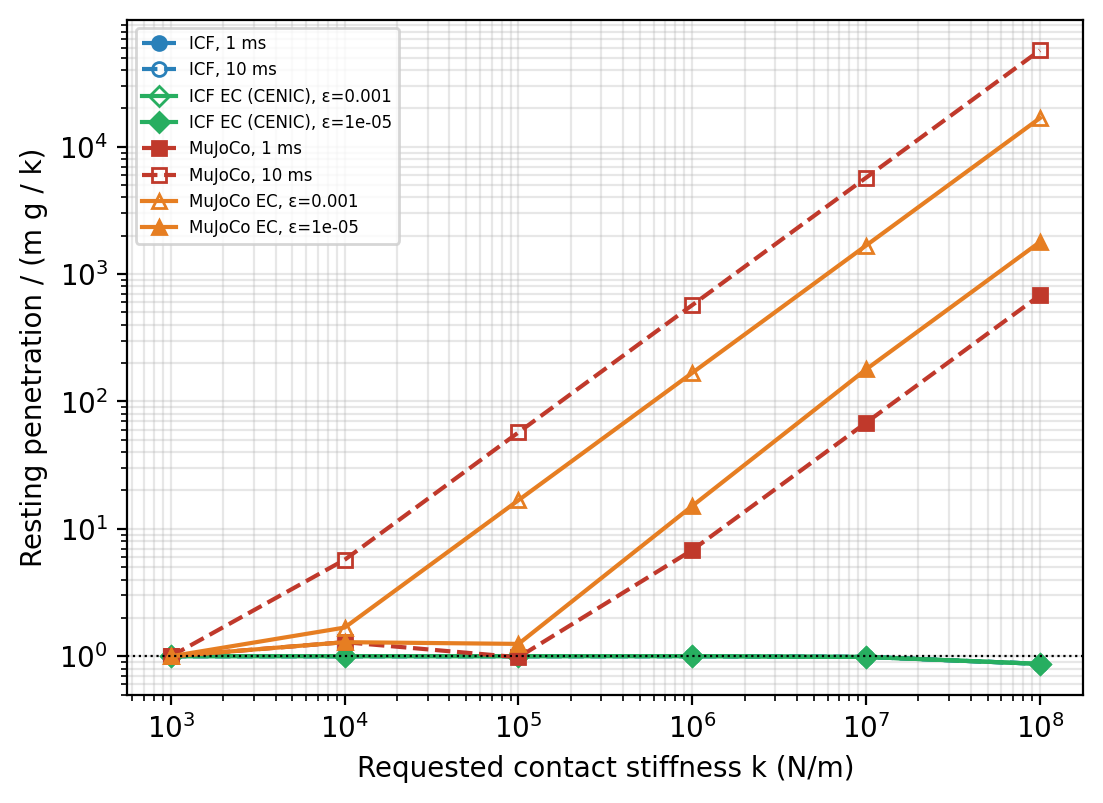
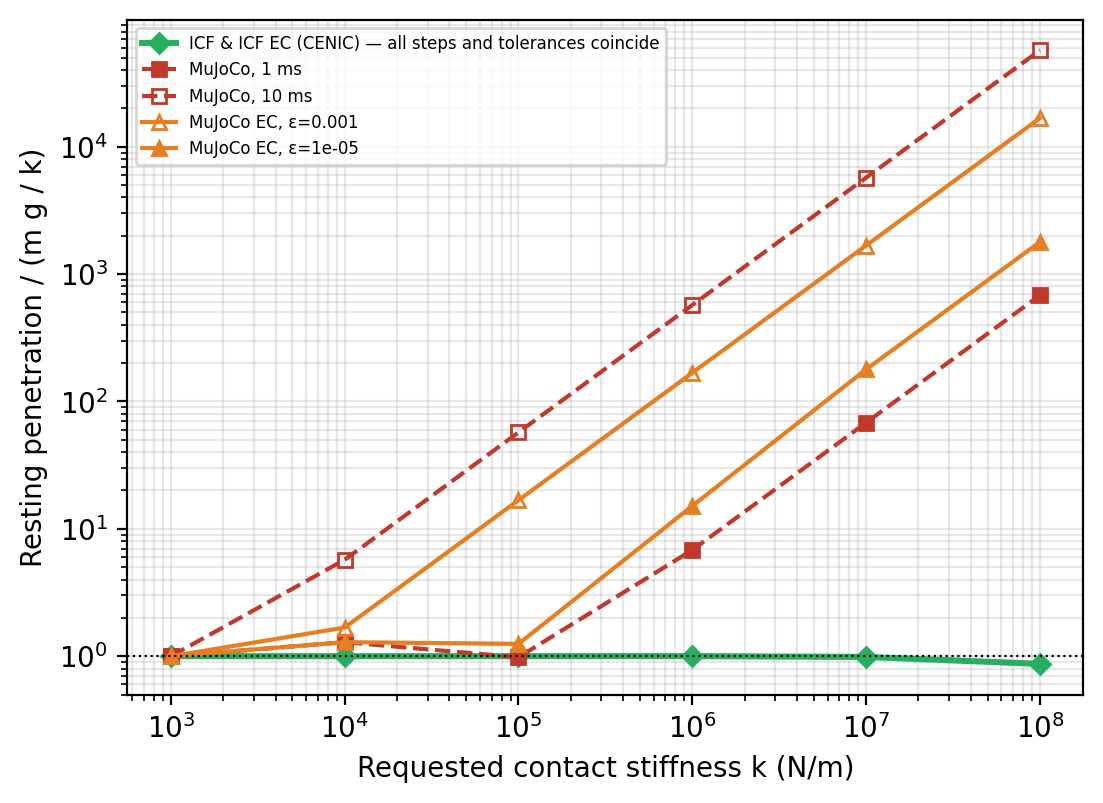
Collapse coincident ICF curves in the stiffness figure; scene renders
The four ICF configurations coincide to the pixel (the finding itself),
so drawn separately three existed only in the legend; one labeled line
now carries all four. Adds authored-geometry renders of the stiffness
and actuated scenes for the core-experiments document.

diff --git a/part1/bench/part1_plots.py b/part1/bench/part1_plots.py
@@ -698,7 +698,18 @@ def stiffness_sweep() -> None:
     variants = {}
     for r in rows:
         variants.setdefault((r["arm"], _knob_label(r)), []).append((r["k_N_per_m"], r["ratio"]))
-    for (arm, lab), pts in sorted(variants.items()):
+    # ICF's four configurations coincide to the pixel (that IS the finding),
+    # so drawn separately three of them exist only in the legend. Collapse
+    # them into ONE labeled line; MuJoCo's four genuinely separate curves
+    # keep their own entries.
+    icf_variants = {k: v for k, v in variants.items() if k[0] in ("icf", "icf-adaptive")}
+    other_variants = {k: v for k, v in variants.items() if k[0] not in ("icf", "icf-adaptive")}
+    if icf_variants:
+        pts = sorted(next(iter(sorted(icf_variants.items())))[1])
+        st = dict(STYLE["icf-adaptive"])
+        st["label"] = "ICF & ICF EC (CENIC) — all steps and tolerances coincide"
+        ax.plot([p[0] for p in pts], [p[1] for p in pts], ms=5, lw=2.2, **st)
+    for (arm, lab), pts in sorted(other_variants.items()):
         pts.sort()
         st = dict(STYLE[arm])
         st["label"] = f"{STYLE[arm]['label']}, {lab}"
